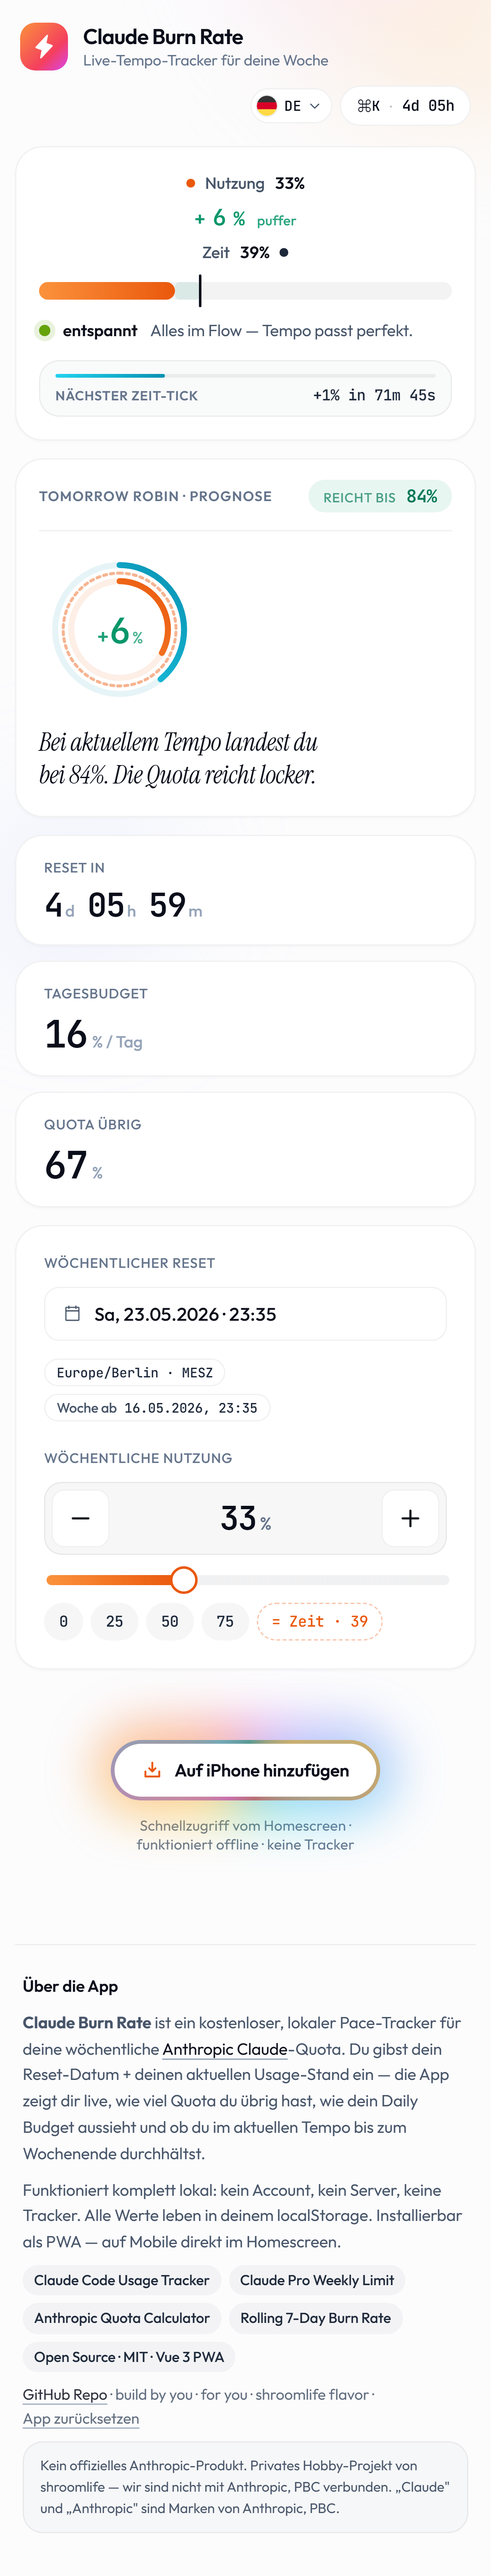
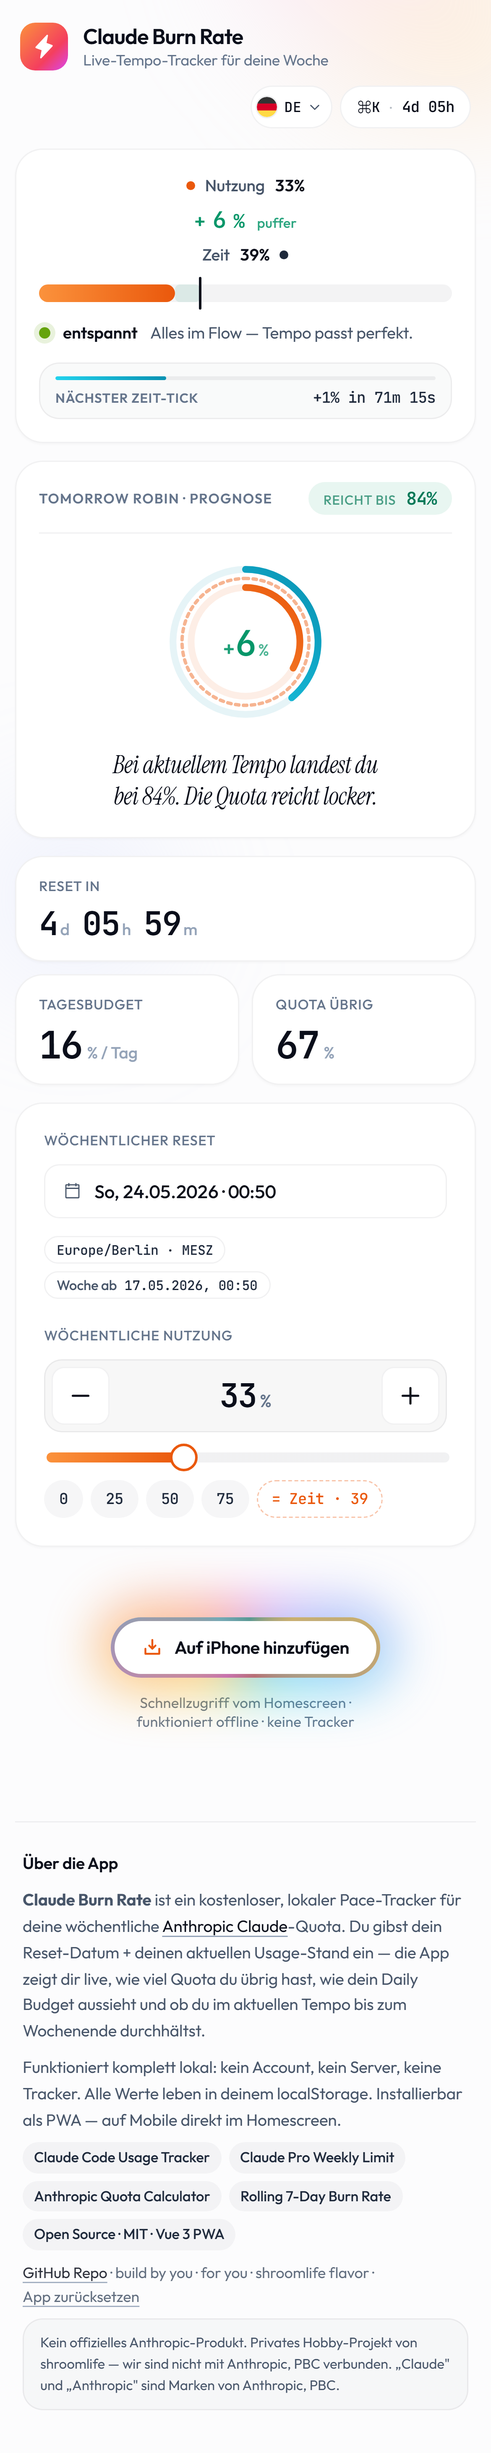
fix: mobile polish — uniform pill heights, centered InsightCard, compact MetricsRow, dropdown overflow
Header pills
- All three header pills (LanguageSwitcher, AuthButton, cmd-pill) now
  share a --pill-h: 34px token from tokens.css and use box-sizing:
  border-box so they line up to the same baseline regardless of internal
  icon size (avatar 24px, flag 18/16px, kbd text). Previously the auth
  pill was visibly taller than the others because the 22px avatar +
  asymmetric padding pushed it above 32px.
- Sign-in variant gets equal padding too.

Actions row alignment
- The mobile actions row was supposed to hug the right edge but
  justify-content: flex-end did nothing on an inline-flex container with
  intrinsic width. Switched to align-self: flex-end on the action block
  inside the column-flex .brand parent — the row now sits flush right
  on phones, matching the desktop visual anchor.

LanguageSwitcher dropdown
- With right: 0 anchored to .lang-wrap (which was being pushed far right
  by the new alignment), the 178px menu extended off the left edge of
  the viewport — labels like 'Deutsch' / 'English' / 'Español' showed
  up clipped as 'eutsch' / 'glish' / 'pañol'.
- Under 560px the menu now anchors left: 0 (opens rightward from the
  pill's left edge), with max-width: calc(100vw - 24px) as a viewport
  safety net. Transform-origin flips to top-left so the pop animation
  comes from the right corner.

InsightCard
- Under 480px the body grid switches to a single centered column with
  text-align: center. Ring sits above the sentence, both visually
[…]

diff --git a/src/components/BurnHeader.vue b/src/components/BurnHeader.vue
@@ -118,10 +118,12 @@ onUnmounted(() => window.removeEventListener('keydown', onKey))
   display: inline-flex;
   align-items: center;
   gap: 8px;
-  padding: 7px 12px;
+  height: var(--pill-h);
+  padding: 0 12px;
   background: var(--c-surface);
   border: 1px solid var(--c-hair);
   border-radius: var(--r-pill);
+  box-sizing: border-box;
   font-size: 12px;
   color: var(--c-mute);
   transition: background 0.18s ease, transform 0.18s ease;
@@ -153,7 +155,11 @@ onUnmounted(() => window.removeEventListener('keydown', onKey))
     gap: 12px;
   }
   .brand-row { gap: 12px; }
-  .actions { justify-content: flex-end; gap: 6px; }
+  /* `align-self: flex-end` overrides the parent's `align-items: stretch`
+     and pushes the actions inline-flex block to the right edge of the
+     header. Without this, the pills bunched at the left and the language
+     dropdown (anchored `right: 0`) opened off-screen to the left. */
+  .actions { align-self: flex-end; gap: 6px; }
   .logo { width: 38px; height: 38px; }
   .name { font-size: 17px; }
   .tag { font-size: 12px; }
@@ -162,7 +168,7 @@ onUnmounted(() => window.removeEventListener('keydown', onKey))
 @media (max-width: 380px) {
   /* Super narrow — drop the kbd hint from cmd-pill and tighten padding
      so all three pills still fit on the second row without wrapping. */
-  .cmd-pill { padding: 6px 10px; gap: 6px; }
+  .cmd-pill { padding: 0 10px; gap: 6px; }
   .cmd-pill kbd { display: none; }
   .cmd-pill .sep { display: none; }
   .tag { font-size: 11.5px; }

diff --git a/src/components/LanguageSwitcher.vue b/src/components/LanguageSwitcher.vue
@@ -121,10 +121,12 @@ async function onOpenFocus(): Promise<void> {
   display: inline-flex;
   align-items: center;
   gap: 7px;
-  padding: 5px 10px 5px 5px;
+  height: var(--pill-h);
+  padding: 0 10px 0 5px;
   background: var(--c-surface);
   border: 1px solid var(--c-hair);
   border-radius: var(--r-pill);
+  box-sizing: border-box;
   font-size: 12px;
   font-weight: 500;
   color: var(--c-ink);
@@ -168,6 +170,7 @@ async function onOpenFocus(): Promise<void> {
   border-radius: 12px;
   box-shadow: 0 18px 40px -16px rgba(15, 23, 42, 0.28);
   min-width: 178px;
+  max-width: calc(100vw - 24px);
   z-index: 50;
 }
 
@@ -220,8 +223,14 @@ async function onOpenFocus(): Promise<void> {
 }
 
 @media (max-width: 560px) {
-  .lang-pill { padding: 5px 8px 5px 4px; gap: 6px; }
+  .lang-pill { padding: 0 8px 0 4px; gap: 6px; }
   .lang-pill .code { font-size: 11px; }
   .flag-current { width: 16px; height: 16px; }
+  /* On mobile the pill sits leftmost in a right-aligned actions row.
+     Anchoring the menu `right: 0` (its desktop default) would push it
+     so far left it overflows the viewport — switch to opening rightward
+     from the pill's left edge instead. */
+  .menu { left: 0; right: auto; transform-origin: top left; }
+  .pop-enter-from, .pop-leave-to { transform-origin: top left; }
 }
 </style>

diff --git a/src/components/AuthButton.vue b/src/components/AuthButton.vue
@@ -85,10 +85,12 @@ const statusTitle = computed(() => {
   display: inline-flex;
   align-items: center;
   gap: 8px;
-  padding: 5px 10px 5px 6px;
+  height: var(--pill-h);
+  padding: 0 10px 0 4px;
   background: var(--c-surface);
   border: 1px solid var(--c-hair);
   border-radius: var(--r-pill);
+  box-sizing: border-box;
   font-size: 12px;
   color: var(--c-ink);
   font-weight: 500;
@@ -99,14 +101,14 @@ const statusTitle = computed(() => {
 .auth-pill:hover { background: rgba(15, 23, 42, 0.03); transform: translateY(-1px); }
 
 .auth-signin {
-  padding: 6px 12px;
+  padding: 0 12px;
   gap: 6px;
 }
 .auth-signin :deep(svg) { width: 14px; height: 14px; color: var(--c-ink); }
 
 .avatar {
-  width: 22px;
-  height: 22px;
+  width: 24px;
+  height: 24px;
   border-radius: 50%;
   flex-shrink: 0;
   border: 1px solid var(--c-hair);

diff --git a/src/components/MetricsRow.vue b/src/components/MetricsRow.vue
@@ -101,11 +101,17 @@ const showSeconds = computed(() => props.countdown.days === 0 && props.countdown
 }
 
 @media (max-width: 720px) {
-  .metrics { grid-template-columns: 1fr 1fr; }
+  .metrics { grid-template-columns: 1fr 1fr; gap: 10px; }
+  /* Reset spans both columns — countdown needs the width. Tagesbudget +
+     Quota übrig sit side-by-side. Previously we collapsed to a single
+     column at 440px, but that left a huge empty right half on each card. */
   .metric:first-child { grid-column: 1 / -1; }
+  .metric { padding: 16px 18px; }
 }
-@media (max-width: 440px) {
-  .metrics { grid-template-columns: 1fr; }
-  .metric:first-child { grid-column: auto; }
+
+@media (max-width: 380px) {
+  .metric { padding: 14px 16px; gap: 8px; }
+  .cd-num { font-size: 22px; }
+  .metric-value { font-size: 24px; }
 }
 </style>

diff --git a/src/components/InsightCard.vue b/src/components/InsightCard.vue
@@ -144,7 +144,17 @@ const projectedTone = computed(() => {
   .line { font-size: 20px; }
 }
 
-@media (max-width: 420px) {
-  .body { grid-template-columns: 1fr; justify-items: start; gap: 12px; }
+@media (max-width: 480px) {
+  /* Ring stacked above sentence, both centered. The earlier `justify-items:
+     start` left a fat gap to the right of the ring on narrow screens — now
+     it's a balanced vertical column. */
+  .body {
+    grid-template-columns: 1fr;
+    justify-items: center;
+    text-align: center;
+    gap: 14px;
+  }
+  .signature :deep(.ring-wrap) { width: 144px; height: 144px; }
+  .line { font-size: 19px; }
 }
 </style>

diff --git a/src/styles/tokens.css b/src/styles/tokens.css
@@ -58,6 +58,10 @@
   --gap: 16px;
   --gap-lg: 22px;
   --gap-xl: 32px;
+
+  /* Pill height — all action pills in the header must agree on this so
+     they line up exactly regardless of internal padding / icon size. */
+  --pill-h: 34px;
 }
 
 /* Mode bindings — used as accent stripe + status dot, not glows */
